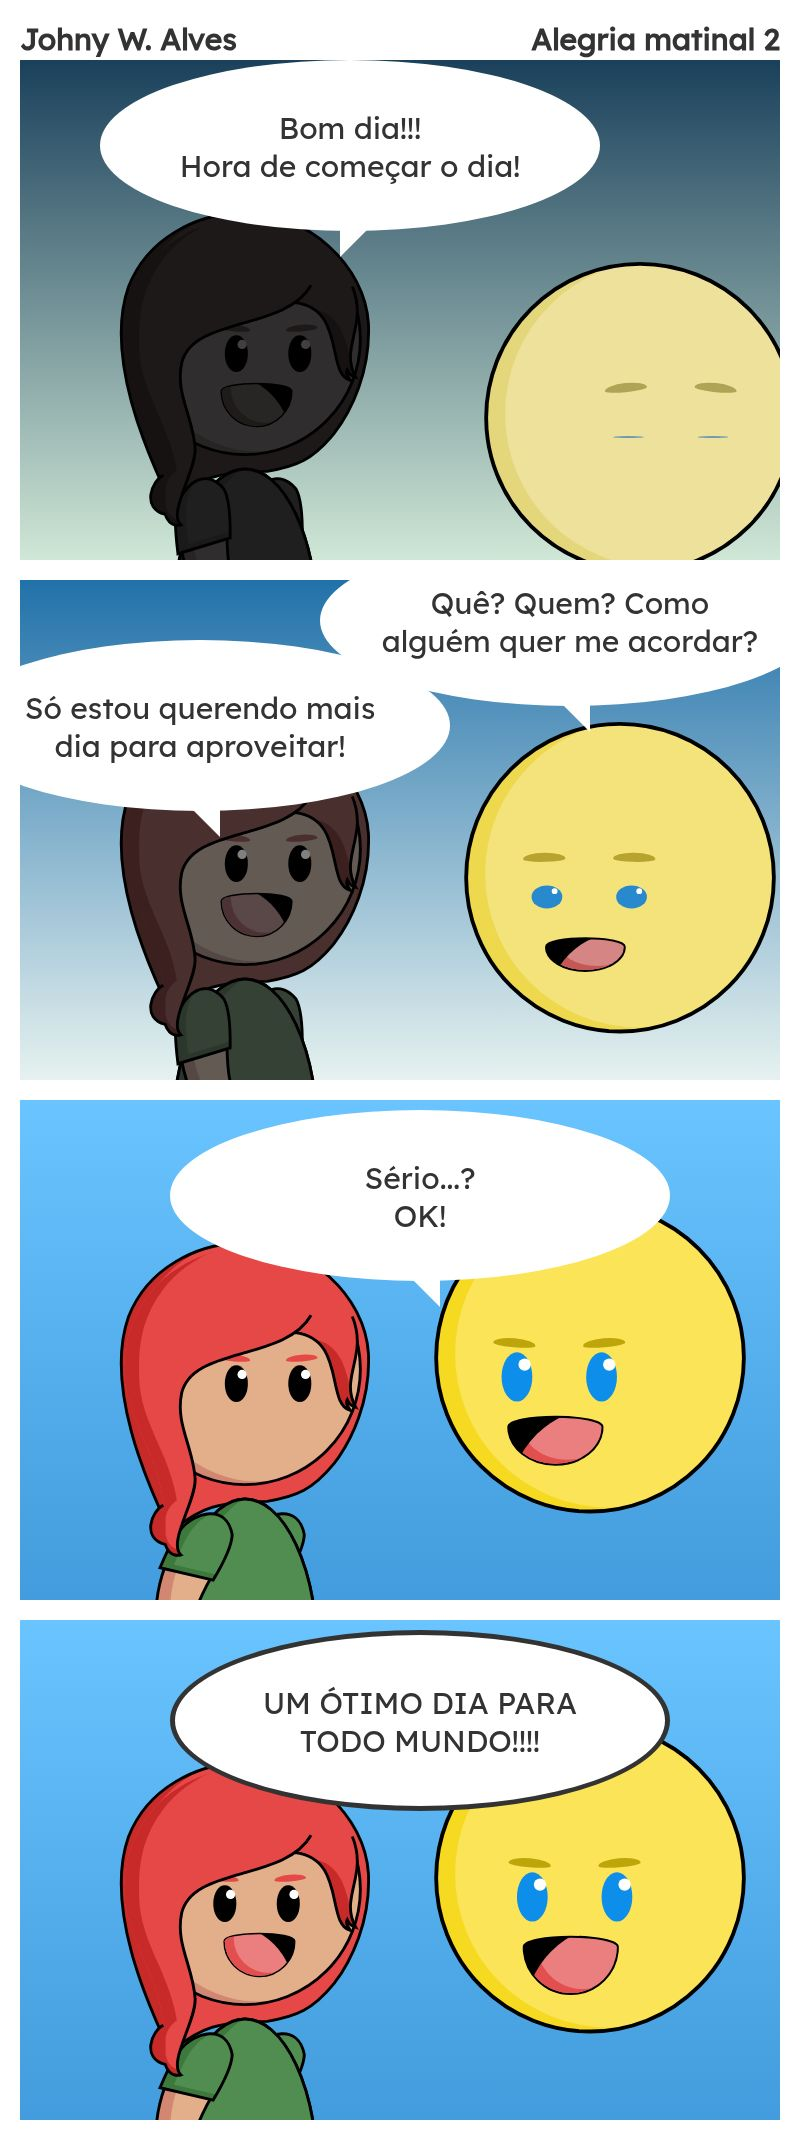
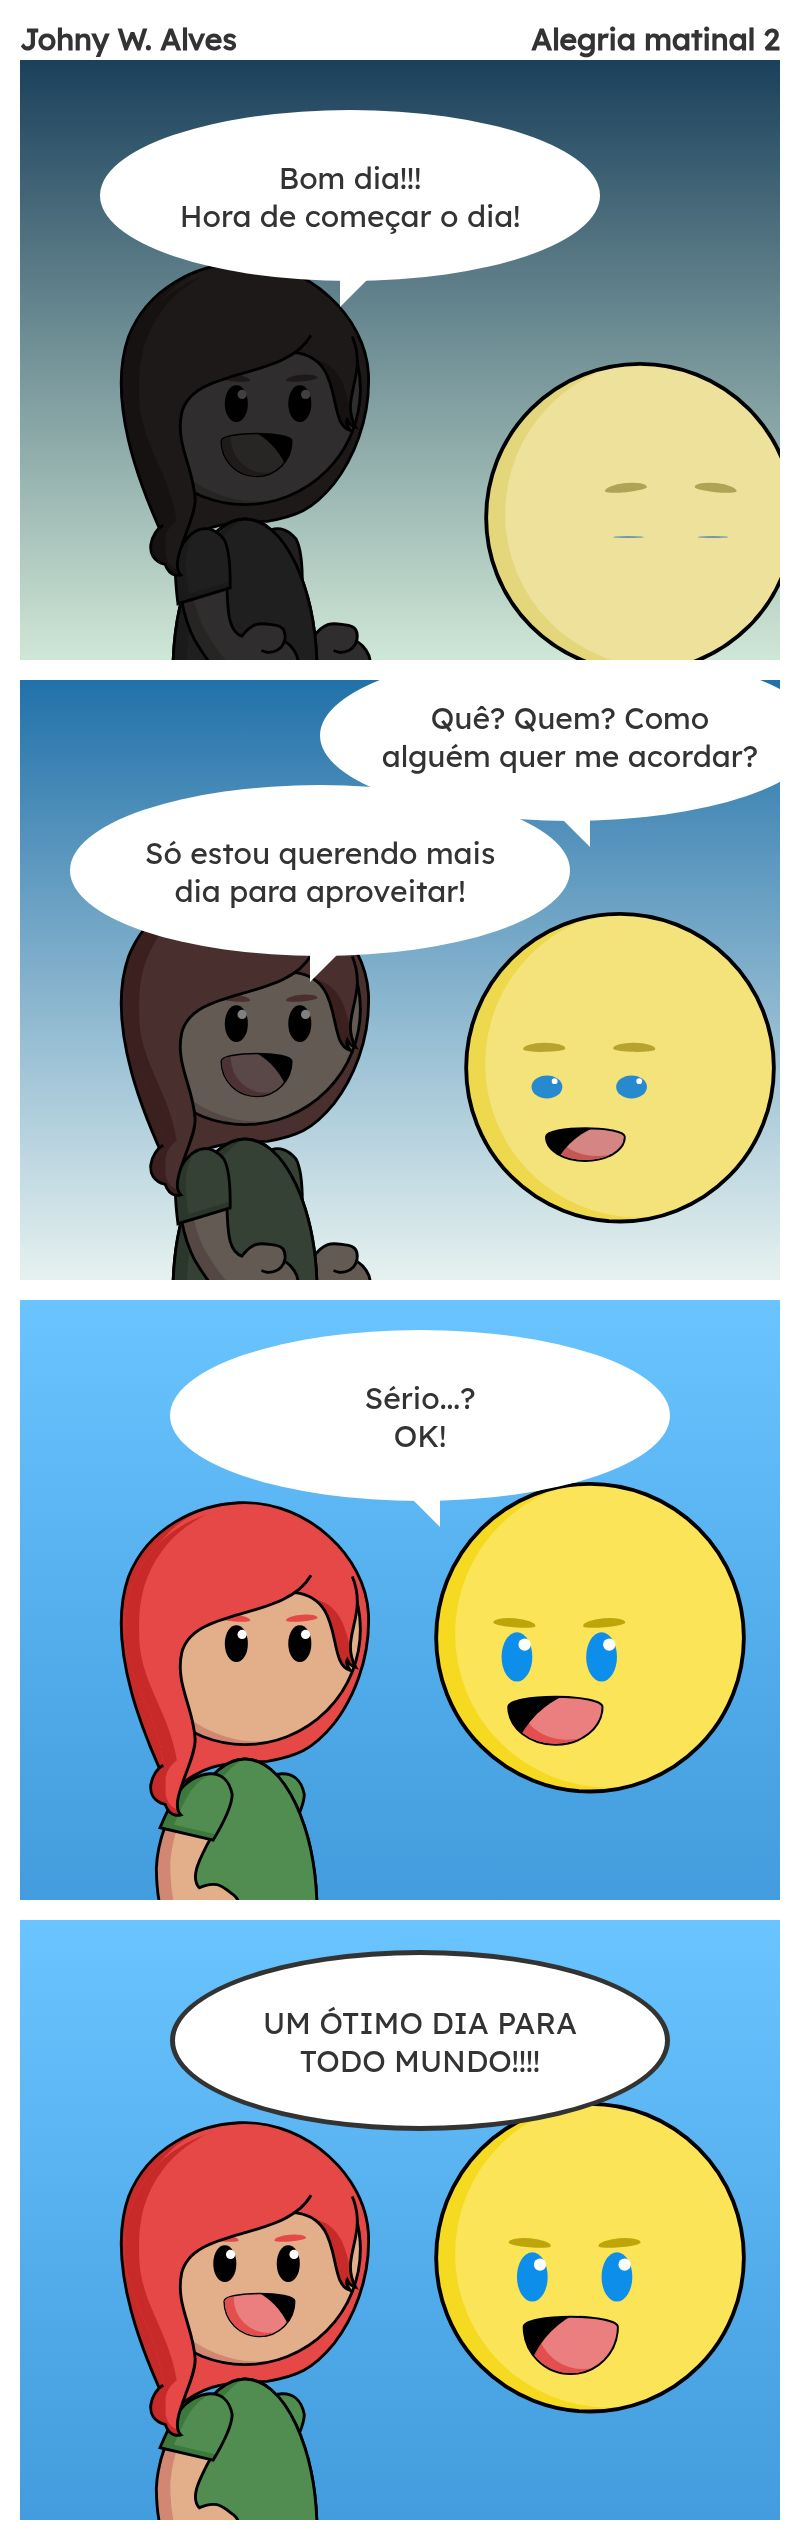
:lipstick: adaptação novo formato de tirinha

diff --git a/src/views/Sections/Comics/index.jsx b/src/views/Sections/Comics/index.jsx
@@ -31,7 +31,7 @@ const SectionComics = () => {
               title
               number
               description
-              horizontal
+              vertical
               transcription
               featuredImage {
                 childImageSharp {
@@ -83,7 +83,7 @@ const SectionComics = () => {
                 </h3>
                 <small>{node.frontmatter.date}</small>
               </HomeComicsHeader>
-              <HomeComicsContainer $horizontal={node.frontmatter.horizontal}>
+              <HomeComicsContainer $vertical={node.frontmatter.vertical}>
                 <HomeComicsImage
                   image={
                     (

diff --git a/src/views/Sections/Comics/styled.jsx b/src/views/Sections/Comics/styled.jsx
@@ -81,11 +81,19 @@ export const HomeComicsContainer = styled.div`
 
   position: relative;
 
-  ${({ $horizontal }) =>
-    $horizontal &&
+  ${({ $vertical }) =>
+    $vertical &&
     css`
       margin: 0 auto;
-      width: 70%;
+      width: 60%;
+
+      ${media.lessThan("large")`
+        width: 80%;
+      `}
+
+      ${media.lessThan("medium")`
+        width: 100%;
+      `}
     `}
 
   &::after {

diff --git a/posts/2023-05-01-comic_27.md b/posts/2023-05-01-comic_27.md
@@ -5,7 +5,7 @@ category: Comic
 featuredImage: ./comics/0027.jpg
 coverImage: /comics/0027-thumb.jpg
 number: 27
-horizontal: false
+vertical: false
 transcription: Tirinha com título Escrito por ChatGPT e conteúdo Quadro 1 "Discutindo com o ChatGPT". Msone fala "Eu acho que podemos melhorar o seu desempenho implementando algumas técnicas de otimização de memória" . Quadro 2. Msone fala "Mas isso vai levar muito tempo e eu não quero mexer no código todo de novo. Eu tenho uma ideia melhor - podemos simplesmente reduzir o número de respostas que ele dá" . Quadro 3. Robô fala "O quê? Mas isso vai limitar a minha utilidade para os usuários!" . Quadro 4. Msone fala "Isso não é uma solução adequada. Precisamos encontrar uma maneira de melhorar o desempenho sem prejudicar a qualidade das respostas." . Quadro 5. Msone fala "Eu entendo, mas temos que garantir que ChatGPT continue sendo uma ferramenta útil para os usuários" Msone fala "Ok, ok. Mas vamos ser práticos, temos um prazo para cumprir" . Quadro 6 "Sophie e Msone concordam em trabalhar juntas para encontrar uma solução viável e ChatGPT fica feliz em saber que seus desenvolvedores estão trabalhando para melhorar sua performance e qualidade".
 tags:
   - Desenvolvedor

diff --git a/posts/2022-03-08-comic_17.md b/posts/2022-03-08-comic_17.md
@@ -5,7 +5,7 @@ category: Comic
 featuredImage: ./comics/0017.jpg
 coverImage: /comics/0017-thumb.jpg
 number: 17
-horizontal: false
+vertical: false
 transcription: Tirinha com título Foco, Força e Fé e conteúdo Quadro 1. Sophie e Msone conversando no escritório Msone fala "Gostaria de aproveitar esse dia da mulher para dizer como admiro seu trabalho e conhecimento técnico". Quadro 2. Sophie fala "Obrigado, você tem um futuro mais brilhante que o meu, só se dedicar aos estudos e projetos". Quadro 3. Msone fala "Calma! Admiração é uma coisa, estar disposta a alcançar os mesmos resultados é outra".
 tags:
   - Mulheres

diff --git a/posts/2022-04-01-comic_18.md b/posts/2022-04-01-comic_18.md
@@ -5,7 +5,7 @@ category: Comic
 featuredImage: ./comics/0018.jpg
 coverImage: /comics/0018-thumb.jpg
 number: 18
-horizontal: false
+vertical: false
 transcription: Tirinha com título Desenvolvimento Moderno e conteúdo Quadro 1. Sophie e Afonso conversando no escritório Afonso fala "Aquele projeto grande que estavamos planejando, temos todos os passos para execução dele". Quadro 2. Sophie fala "Não seria melhor integrar o cliente no processo e ajustando com os retornos dos progressos?". Quadro 3. Afonso fala "Parece uma boa, mas vamos fazer do jeito mais tradicional, dá certo na engenheria civil".
 tags:
   - Metodologia

diff --git a/posts/2021-06-18-comic_14.md b/posts/2021-06-18-comic_14.md
@@ -5,7 +5,7 @@ category: Comic
 featuredImage: ./comics/0014.jpg
 coverImage: /comics/0014-thumb.jpg
 number: 14
-horizontal: false
+vertical: false
 transcription: Quadro 1. Rafiq na mesa desenhando Msone fala "Parabéns pela estética e inovação, mas nosso tempo é escasso vamos ter dificuldades para implementar isso". Quadro 2. Sophie entra na sala Sophie fala "Nossa! Estou ansiosa para trabalhar com algo tão belo e inovador". Quadro 3. Msone e Rafiq se olham em silêncio enquanto Sophie sai da sala. Quadro 4. Msone fala "Você sabe que vai sobrar para mim essa tarefa de qualquer maneira".
 tags:
   - Desenho

diff --git a/posts/2020-11-26-comic_11.md b/posts/2020-11-26-comic_11.md
@@ -5,7 +5,7 @@ category: Comic
 featuredImage: ./comics/0011.jpg
 coverImage: /comics/0011-thumb.jpg
 number: 11
-horizontal: false
+vertical: false
 transcription: Quadro 1 "Python". Afonso fala "Por que não está rodando?" Afonso fala "Desculpe, mas o código deve estar lindo para rodar". Quadro 2 "TypeScript". Afonso fala "Por que não está rodando?" Afonso fala "Foi mal, você não declarou todos os tipos que está usando". Quadro 3 "JavaScript". Afonso fala "Por que não está rodando?" Afonso fala "Rodando? Sempre! Só não garanto os resultados que você deseja".
 tags:
   - Sintaxe

diff --git a/posts/2022-02-25-comic_16.md b/posts/2022-02-25-comic_16.md
@@ -5,7 +5,7 @@ category: Comic
 featuredImage: ./comics/0016.jpg
 coverImage: /comics/0016-thumb.jpg
 number: 16
-horizontal: false
+vertical: false
 transcription: Quadro 1. Afonso fala "Nossa empresa tem horário flexível, ambiente dinâmico e inovador". Quadro 2. Msone fala "Por favor leia como hora extra não remunerada, falta de planejamento e modelo de negócio tradicional". Quadro 3. Afonso fala "Temos café a vontade para ajudar na sua disposição e produtividade". Quadro 4. Msone fala "O que foi? É isso mesmo, não crítico café grátis.".
 tags:
   - Vantagens

diff --git a/posts/2022-11-22-comic_26.md b/posts/2022-11-22-comic_26.md
@@ -5,7 +5,7 @@ category: Comic
 featuredImage: ./comics/0026.jpg
 coverImage: /comics/0026-thumb.jpg
 number: 26
-horizontal: false
+vertical: false
 transcription: Tirinha com título Análise profissional e conteúdo Quadro 1. Msone fala "A análise da sua atuação profissional, que pediu". Quadro 2. Sophie fala "Não! Não posso aceitar isso! Só tem coisa boa aqui!" Msone fala "O que você esperava?". Quadro 3. Sophie fala "Tem razão! Devo estar fazendo um ótimo trabalho". Quadro 4. Msone fala "Dá uma atualizada. Adiciona presunçosa, por favor".
 tags:
   - Pessoal

diff --git a/posts/2022-06-16-comic_21.md b/posts/2022-06-16-comic_21.md
@@ -5,7 +5,7 @@ category: Comic
 featuredImage: ./comics/0021.jpg
 coverImage: /comics/0021-thumb.jpg
 number: 21
-horizontal: false
+vertical: false
 transcription: Tirinha com título Tentação e conteúdo Quadro 1. Msone pensando sozinha Msone pensa "Preciso decidir como melhorar esse código..." Msone (Lado mal) fala "Deixa ele assim, você refatora depois". Quadro 2.. Quadro 3.. Quadro 4. Sol fala "Cadê a pessoa que dá bons conselhos?" Msone (Lado mal) fala "Você realmente acredita na existência dela?".
 tags:
   - Más práticas

diff --git a/posts/2022-05-06-comic_19.md b/posts/2022-05-06-comic_19.md
@@ -5,7 +5,7 @@ category: Comic
 featuredImage: ./comics/0019.jpg
 coverImage: /comics/0019-thumb.jpg
 number: 19
-horizontal: false
+vertical: false
 transcription: Tirinha com título Pausa para o café e conteúdo Quadro 1. Afonso e Msone conversando na cafeteria Afonso fala "Preciso falar com você sobre o projeto...". Quadro 2. Msone fala "Estou na pausa do café logo depois volto para a mesa e conversamos". Quadro 3. Afonso fala "Se você respondesse minhas mensagens de lá, não estava te procurando aqui".
 tags:
   - Café

diff --git a/posts/2023-07-25-comic_28.md b/posts/2023-07-25-comic_28.md
@@ -5,7 +5,7 @@ category: Comic
 featuredImage: ./comics/0028.jpg
 coverImage: /comics/0028-thumb.jpg
 number: 28
-horizontal: false
+vertical: false
 transcription: Tirinha com título Motivação Criativa e conteúdo Quadro 1. Rafiq fala "Aqui está uma xícara de café especialmente para você!" . Quadro 2. Sophie fala "Você é muito gentil... mas por que você trouxe uma xícara de café?" . Quadro 3. Rafiq fala "Dizem que o desenvolvimento é movido a café! E eu preciso dessa entrega para hoje." .
 tags:
   - Desenvolvedor
